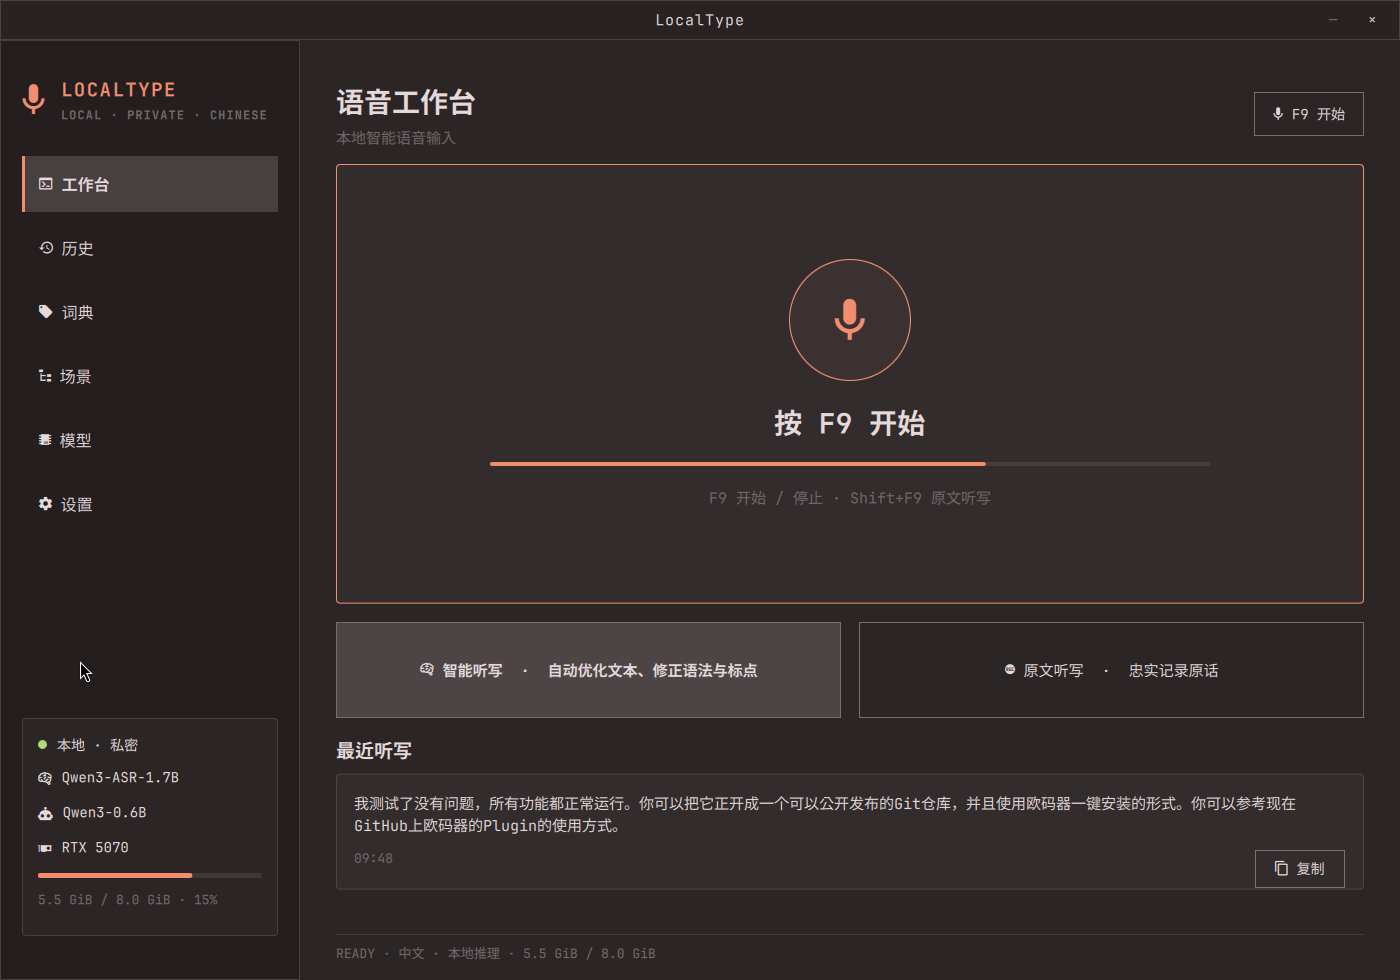
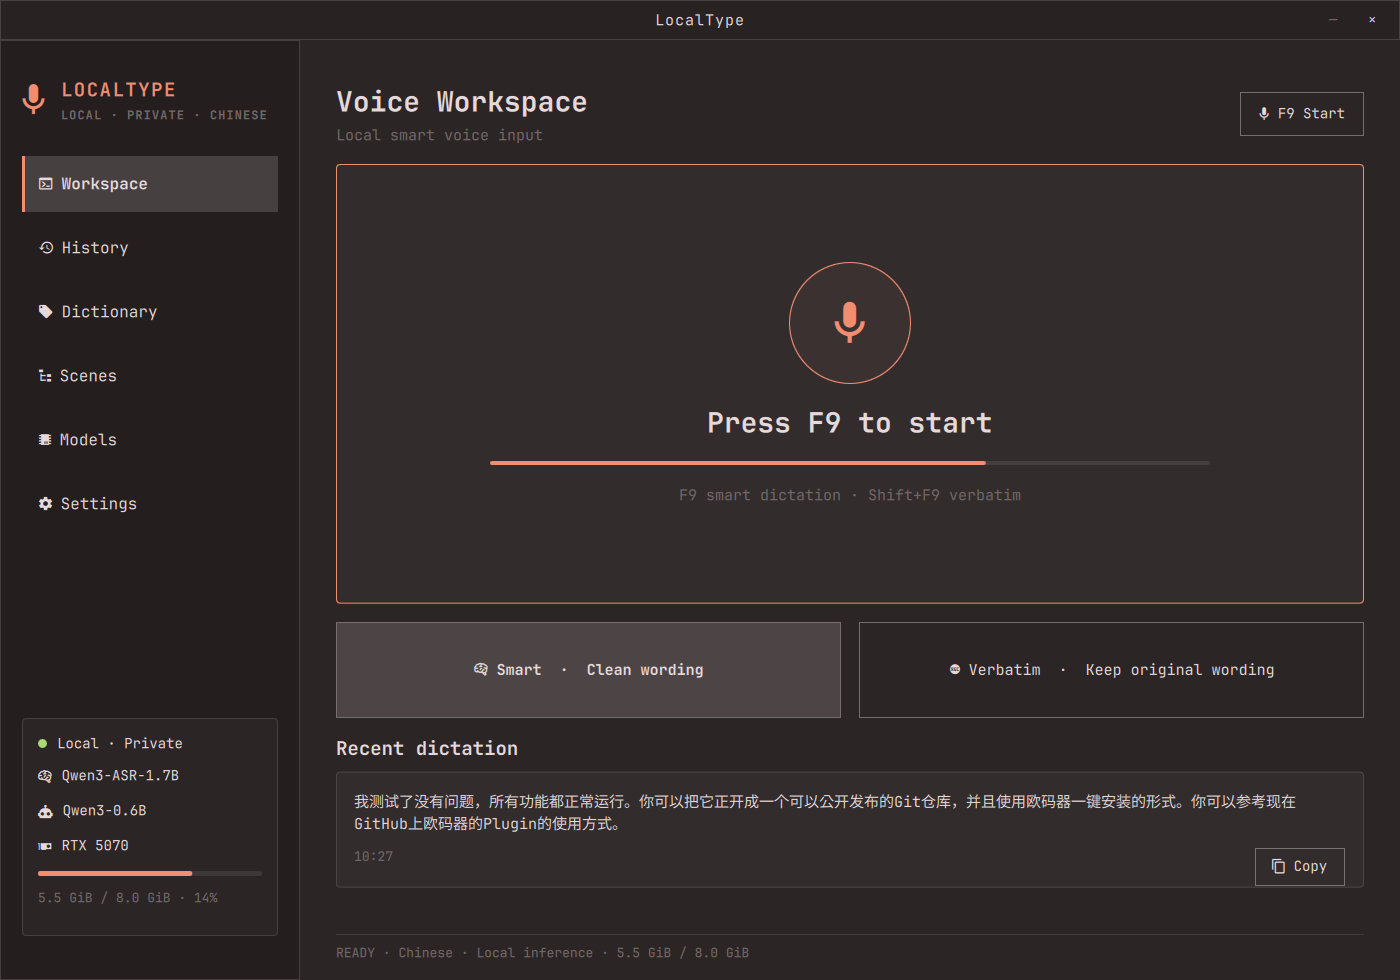
docs: document bilingual release and shortcut settings

diff --git a/design-qa.md b/design-qa.md
@@ -28,6 +28,9 @@ passed
 - Full History: `qa/history-comparison-final.png`
 - Full Scenes: `qa/scenes-comparison-final.png`
 - Final six-page contact sheet: `qa/final-contact-sheet.png`
+- English six-page contact sheet: `qa/i18n/english-contact-sheet.png`
+- English Settings: `qa/i18n/settings-en-final.png`
+- Simplified Chinese Settings: `qa/i18n/settings-zh.png`
 
 Each comparison places the normalized reference on the left and the running implementation on the right.
 
@@ -39,5 +42,7 @@ Each comparison places the normalized reference on the left and the running impl
 4. Corrected History delegate width/height and exposed both polished and original text without clipping.
 5. Loaded the latest persisted transcript on Workspace and made its copy action use the visible text.
 6. Removed a two-second QML refresh warning found during runtime log inspection.
+7. Verified all six pages in the English-default locale and the Settings page in Simplified Chinese.
+8. Shortened English mode-card labels after the first locale pass exposed an overflow at 1400 × 980.
 
 No P0, P1, or P2 visual or interaction issues remain in the tested viewport. Differences from the mockups are limited to real user data volume and Omarchy's theme-native toggle treatment, both intentional.
